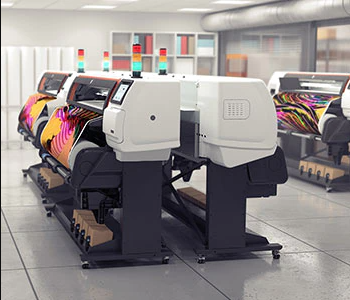
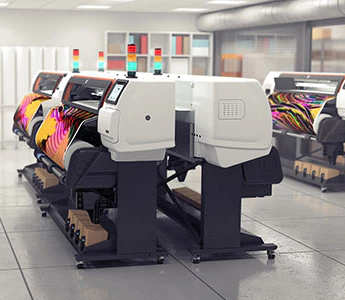
Update

diff --git a/src/views/quote/index.vue b/src/views/quote/index.vue
@@ -76,6 +76,7 @@
                 color="#FFFFFF"
                 dark
                 label="Colors (front)"
+                hide-details
                 style="margin-bottom: 7px"
                 dense />
 
@@ -100,17 +101,27 @@
                 color="#FFFFFF"
                 dark
                 label="Shipping"
-                style="margin-bottom: 7px"
+                hide-details
                 dense />
 
               <v-btn
+                v-if="isSmaller || isSmall"
                 dark
-                outlined>
+                outlined
+                style="margin-top: 40px">
                 Send
               </v-btn>
             </div>
 
             <div :class="[$style.column, $style.contact]">
+              <dots
+                v-if="!(isSmaller || isSmall)"
+                :height="4"
+                :width="4"
+                :fillRatio="1"
+                :coloredRatio="0"
+                style="margin-bottom: 40px" />
+
               <div :class="$style['contact-wrapper']">
                 <p :class="$style['contact-details']">
                   Have a question? No worries—we've got this!
@@ -121,6 +132,22 @@
                 </p>
               </div>
             </div>
+          </div>
+
+          <div
+            :class="$style.form"
+            style="margin-top: 20px">
+            <div :class="$style.column" />
+
+            <div :class="$style.column">
+              <v-btn
+                dark
+                outlined>
+                Send
+              </v-btn>
+            </div>
+
+            <div :class="$style.column" />
           </div>
         </div>
       </div>
@@ -156,8 +183,15 @@ import {
 } from 'vuex';
 import Vue from 'vue';
 
+// Local Imports
+import Dots from '../home/components/dots.vue';
+
 export default Vue.extend({
   name: 'quote-view',
+
+  components: {
+    Dots,
+  },
 
   data: () => ({
     name: '',
@@ -229,7 +263,7 @@ export default Vue.extend({
   grid-template-rows: 117px 60px auto;
   width: 100vw;
   min-height: 100vh;
-  background: #EC6357;
+  background: #19b4b0;
   padding-bottom: 40px;
 }
 
@@ -249,7 +283,9 @@ export default Vue.extend({
   background-size: cover;
   border-radius: 12px;
   padding: 80px;
-  background-image: linear-gradient(#e95649ea,#e95649EA), url('../../../public/img/texture.jpg');
+  background-image: linear-gradient(#00000022,#5a5a5a00),
+    linear-gradient(#19b4b0ea,#19b4b0ea),
+    url('../../../public/img/texture.jpg');
 }
 
 .form-wrapper {
@@ -296,7 +332,7 @@ export default Vue.extend({
   display: flex;
   flex-direction: column;
   justify-content: center;
-  align-items: center;
+  align-items: flex-start;
 }
 
 .contact-wrapper {

diff --git a/src/views/home/config/index.ts b/src/views/home/config/index.ts
@@ -22,41 +22,41 @@ export const PRESET_TIMING = 5000;
 export const SUBTEXTS: PresetText[][] = [
   [
     {
-      accent: true,
+      accent: false,
       text: 'Serving',
     },
     {
-      accent: true,
+      accent: false,
       text: 'clients',
     },
     {
-      accent: false,
+      accent: true,
       text: 'across',
     },
     {
-      accent: false,
+      accent: true,
       text: 'the',
     },
     {
-      accent: false,
+      accent: true,
       text: 'nation',
     },
   ],
   [
     {
-      accent: true,
+      accent: false,
       text: 'Veteran',
     },
     {
-      accent: true,
+      accent: false,
       text: 'owned',
     },
     {
-      accent: false,
+      accent: true,
       text: 'and',
     },
     {
-      accent: false,
+      accent: true,
       text: 'operated',
     },
   ],

diff --git a/src/components/ui/images/full-width-image.vue b/src/components/ui/images/full-width-image.vue
@@ -1,14 +1,12 @@
 <template>
   <div
-    :class="[
-      $style.component,
-      {
-        [$style.smaller]: isSmaller,
-        [$style.small]: isSmall,
-        [$style.medium]: isMedium,
-        [$style.large]: isLarge,
-      },
-    ]"
+    :class="{
+      [$style.component]: true,
+      [$style.smaller]: isSmaller,
+      [$style.small]: isSmall,
+      [$style.medium]: isMedium,
+      [$style.large]: isLarge,
+    }"
     :style="{
       'background-image': `url('${src}')`,
     }">
@@ -50,8 +48,11 @@ export default Vue.extend({
   width: 100vw;
   height: 800px;
   background-size: cover;
+  background-position: center center;
 
-  &.small {
+  &.small,
+  &.smaller,
+  &.medium {
     height: 450px;
   }
 

diff --git a/src/App.vue b/src/App.vue
@@ -6,15 +6,6 @@
 
     <v-main :class="$style.main">
       <router-view/>
-
-      <navigation-menu
-        v-if="(isLarger || isLarge) && getPage === 'home'"
-        :class="[
-          $style.navigation,
-          {
-            [$style.center]: getPage === 'home',
-          },
-        ]" />
     </v-main>
   </v-app>
 </template>
@@ -29,14 +20,12 @@ import Vue from 'vue';
 
 // Local Imports
 import AppBar from './components/ui/app-bar/app-bar.vue';
-import NavigationMenu from './components/ui/navigation/navigation-menu.vue';
 
 export default Vue.extend({
   name: 'App',
 
   components: {
     AppBar,
-    NavigationMenu,
   },
 
   computed: {

diff --git a/src/views/services/components/header.vue b/src/views/services/components/header.vue
@@ -10,11 +10,11 @@
     ]">
     <div :class="$style.hero">
       <p :class="$style.first">
-        Award-winning.
+        <i>Award</i>-winning.
       </p>
 
       <p :class="$style.second">
-        Sustainable.
+        Sustain<i>able.</i>
       </p>
 
       <p :class="$style.third">
@@ -72,7 +72,8 @@ export default Vue.extend({
   width: 100vw;
   height: 520px;
   background-size: cover !important;
-  background: url('../../../../public/img/blob-background.jpg');
+  background-position: 0% 100% !important;
+  background: url('../../../../public/img/blob-background.png');
 }
 
 .hero {

diff --git a/src/views/services/components/navigation.vue b/src/views/services/components/navigation.vue
@@ -8,13 +8,6 @@
         [$style.large]: isLarge,
       },
     ]">
-    <v-icon
-      :class="$style.icon"
-      color="black"
-      @click="scrollToFirst">
-      mdi-chevron-left
-    </v-icon>
-
     <div :class="[
         $style.content,
         'navigational-horizontal-menu',
@@ -31,6 +24,13 @@
         {{  feature.label }}
       </p>
     </div>
+
+    <v-icon
+      :class="$style.icon"
+      color="black"
+      @click="scrollToFirst">
+      mdi-chevron-left
+    </v-icon>
 
     <v-icon
       :class="$style.icon"

diff --git a/src/views/services/components/feature.vue b/src/views/services/components/feature.vue
@@ -184,7 +184,7 @@ export default Vue.extend({
   grid-column-end: 2;
   border-radius: 13px;
   width: 100%;
-  height: calc((100vw - 240px - 120px) / 2 / 1.4);
+  height: calc((100vw - 240px - 120px) / 2 / 1.6);
   max-height: 360px;
   background-size: cover;
 
@@ -259,6 +259,6 @@ export default Vue.extend({
 }
 
 .quote {
-  margin-top: 20px;
+  margin-top: 40px;
 }
 </style>

diff --git a/src/views/home/components/feature.vue b/src/views/home/components/feature.vue
@@ -35,10 +35,10 @@ export default Vue.extend({
     line-height: 26px;
     color: white;
     text-shadow: 3px 3px 3px rgba(0, 0, 0, 0.099);
-    font-weight: 500;
+    font-weight: 300;
 
     &:first-of-type {
-      font-weight: 300;
+      font-weight: 500;
     }
   }
 }

diff --git a/src/views/about/components/header.vue b/src/views/about/components/header.vue
@@ -16,13 +16,6 @@
     <span :class="[$style.title]">
       On this journey together since 1996.
     </span>
-
-    <span
-      v-if="!(isSmall || isSmaller)"
-      :class="[
-        $style.box,
-        $style.right,
-      ]" />
   </div>
 </template>
 

diff --git a/src/views/services/config/index.ts b/src/views/services/config/index.ts
@@ -71,7 +71,7 @@ export const FEATURES: Feature[] = [
       'Window Graphics ',
       'Wall Graphics',
     ],
-    image: 'wide-format',
+    image: 'wide-format2',
   },
   {
     title: 'Graphic Design',

diff --git a/src/views/services/components/products.vue b/src/views/services/components/products.vue
@@ -154,6 +154,10 @@ export default Vue.extend({
     font-size: 17;
     line-height: 20.339px;
     margin: 0;
+
+    &:last-of-type {
+      margin: 0;
+    }
   }
 }
 
